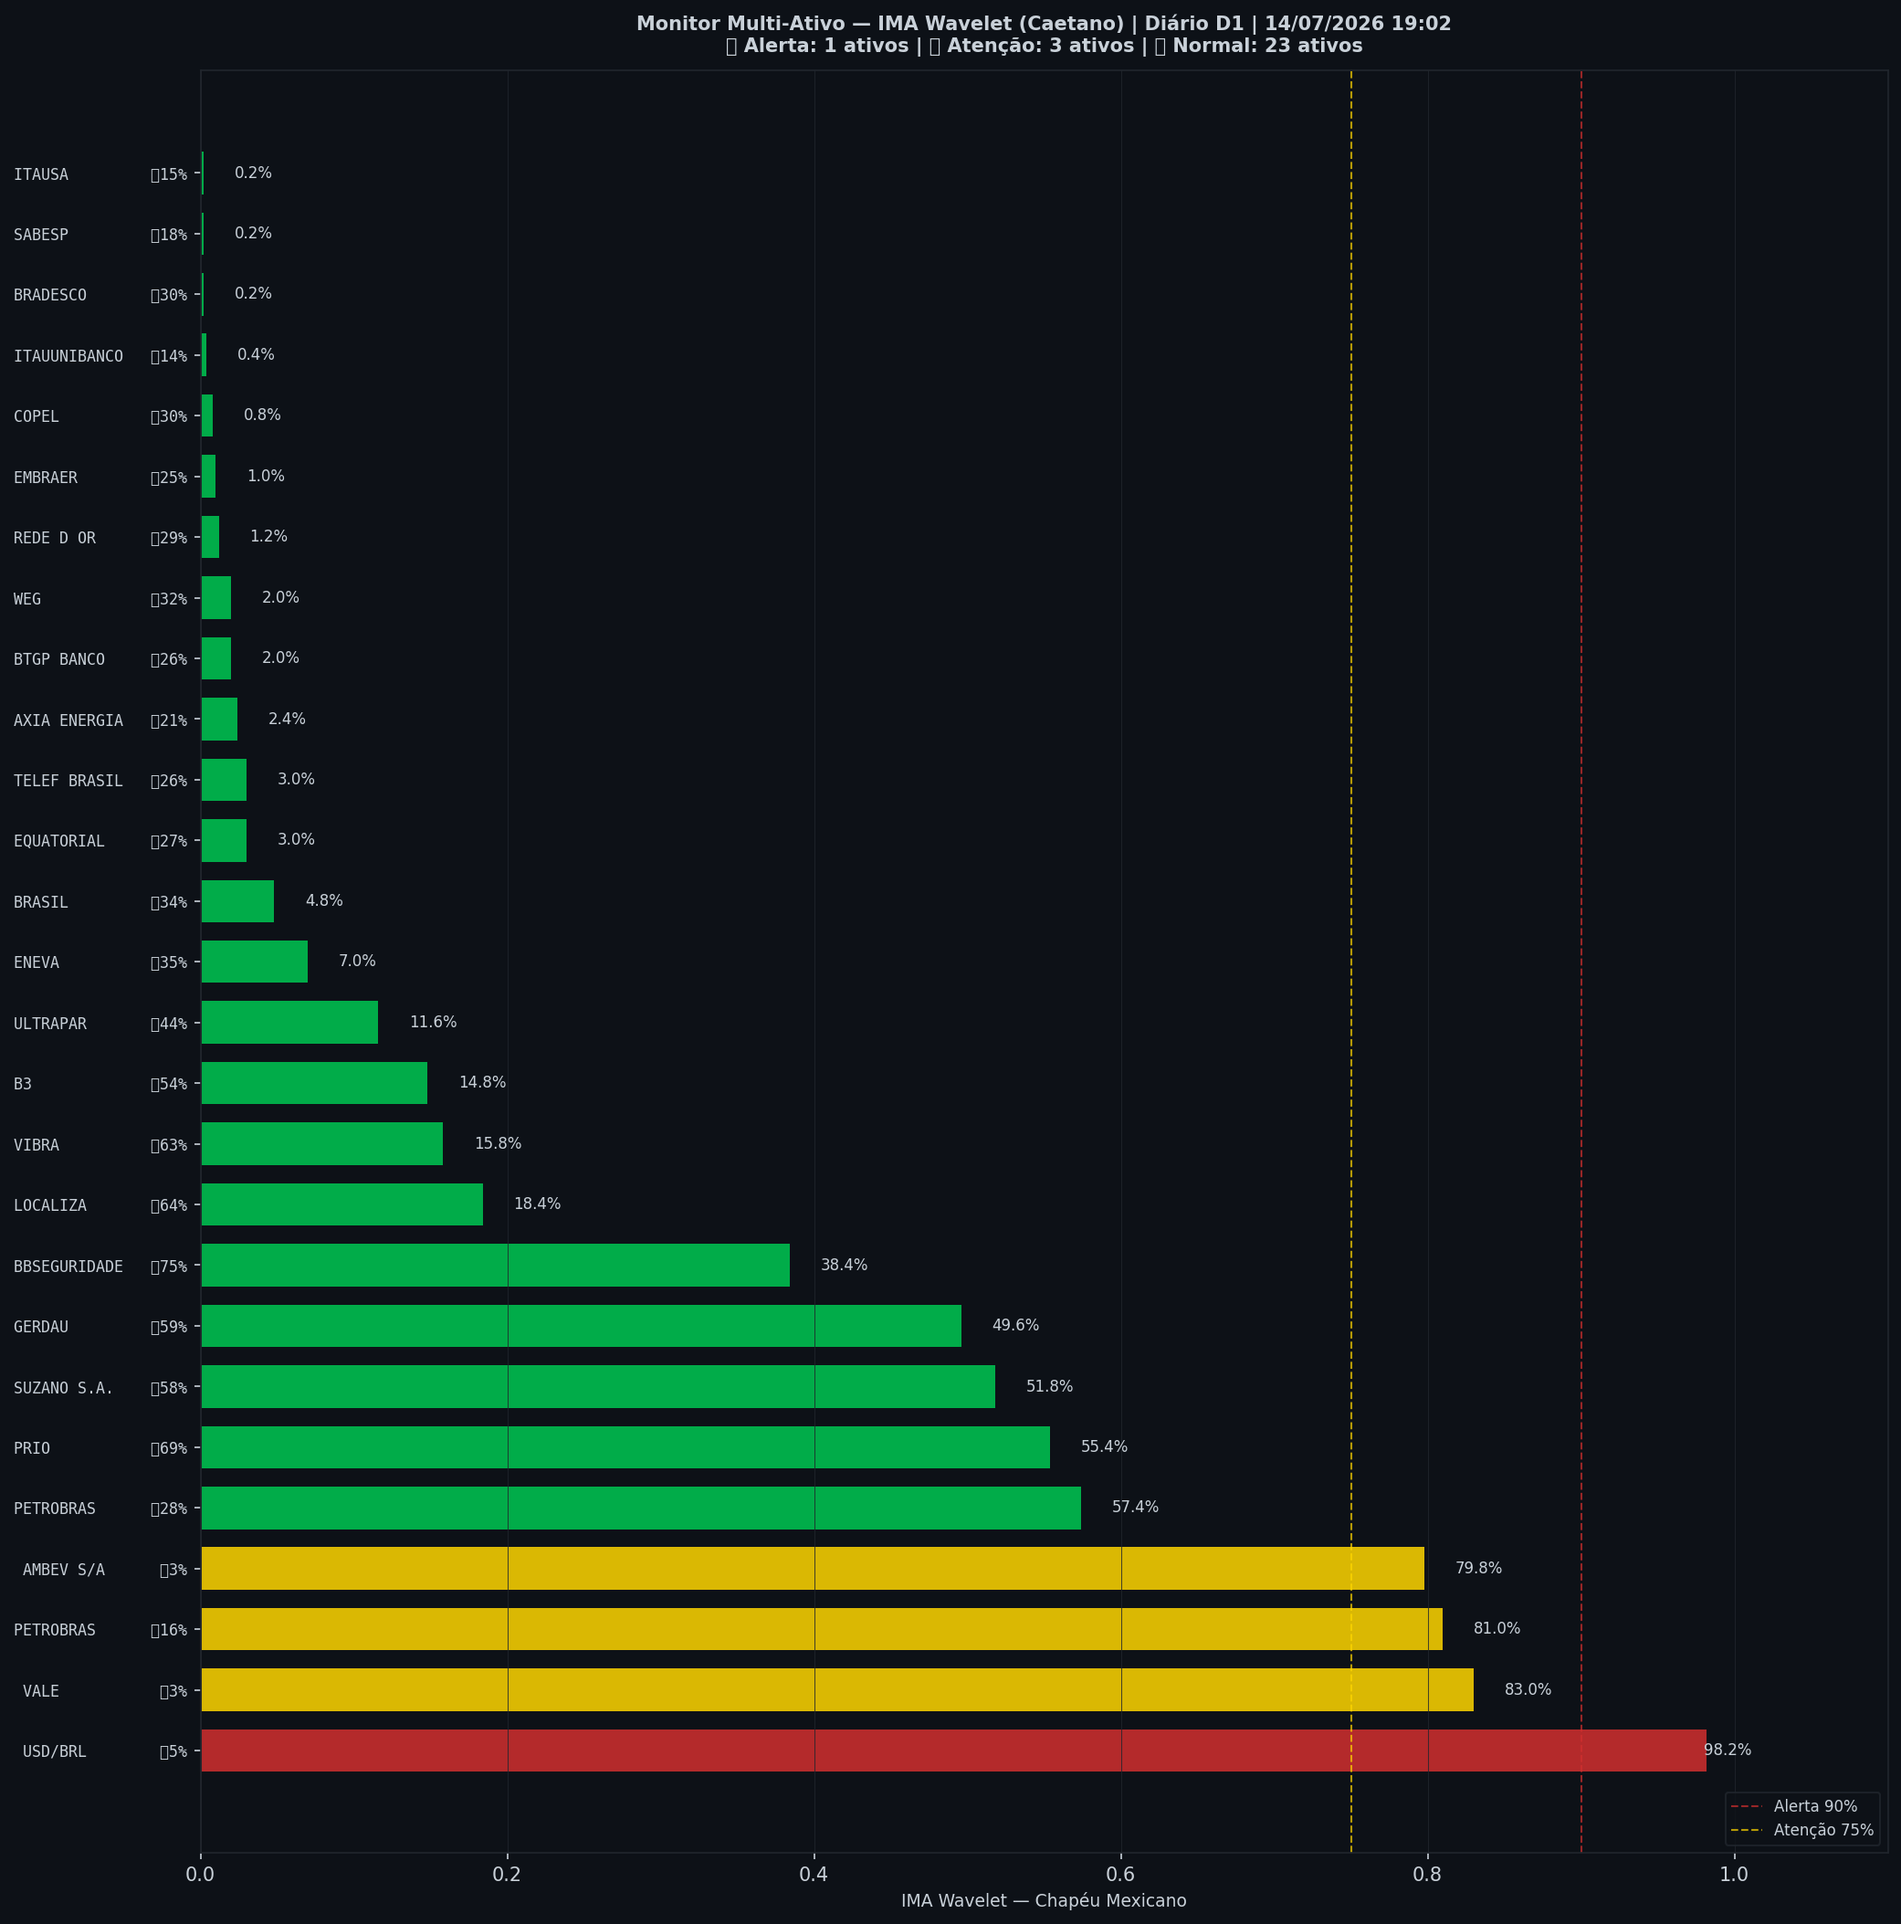
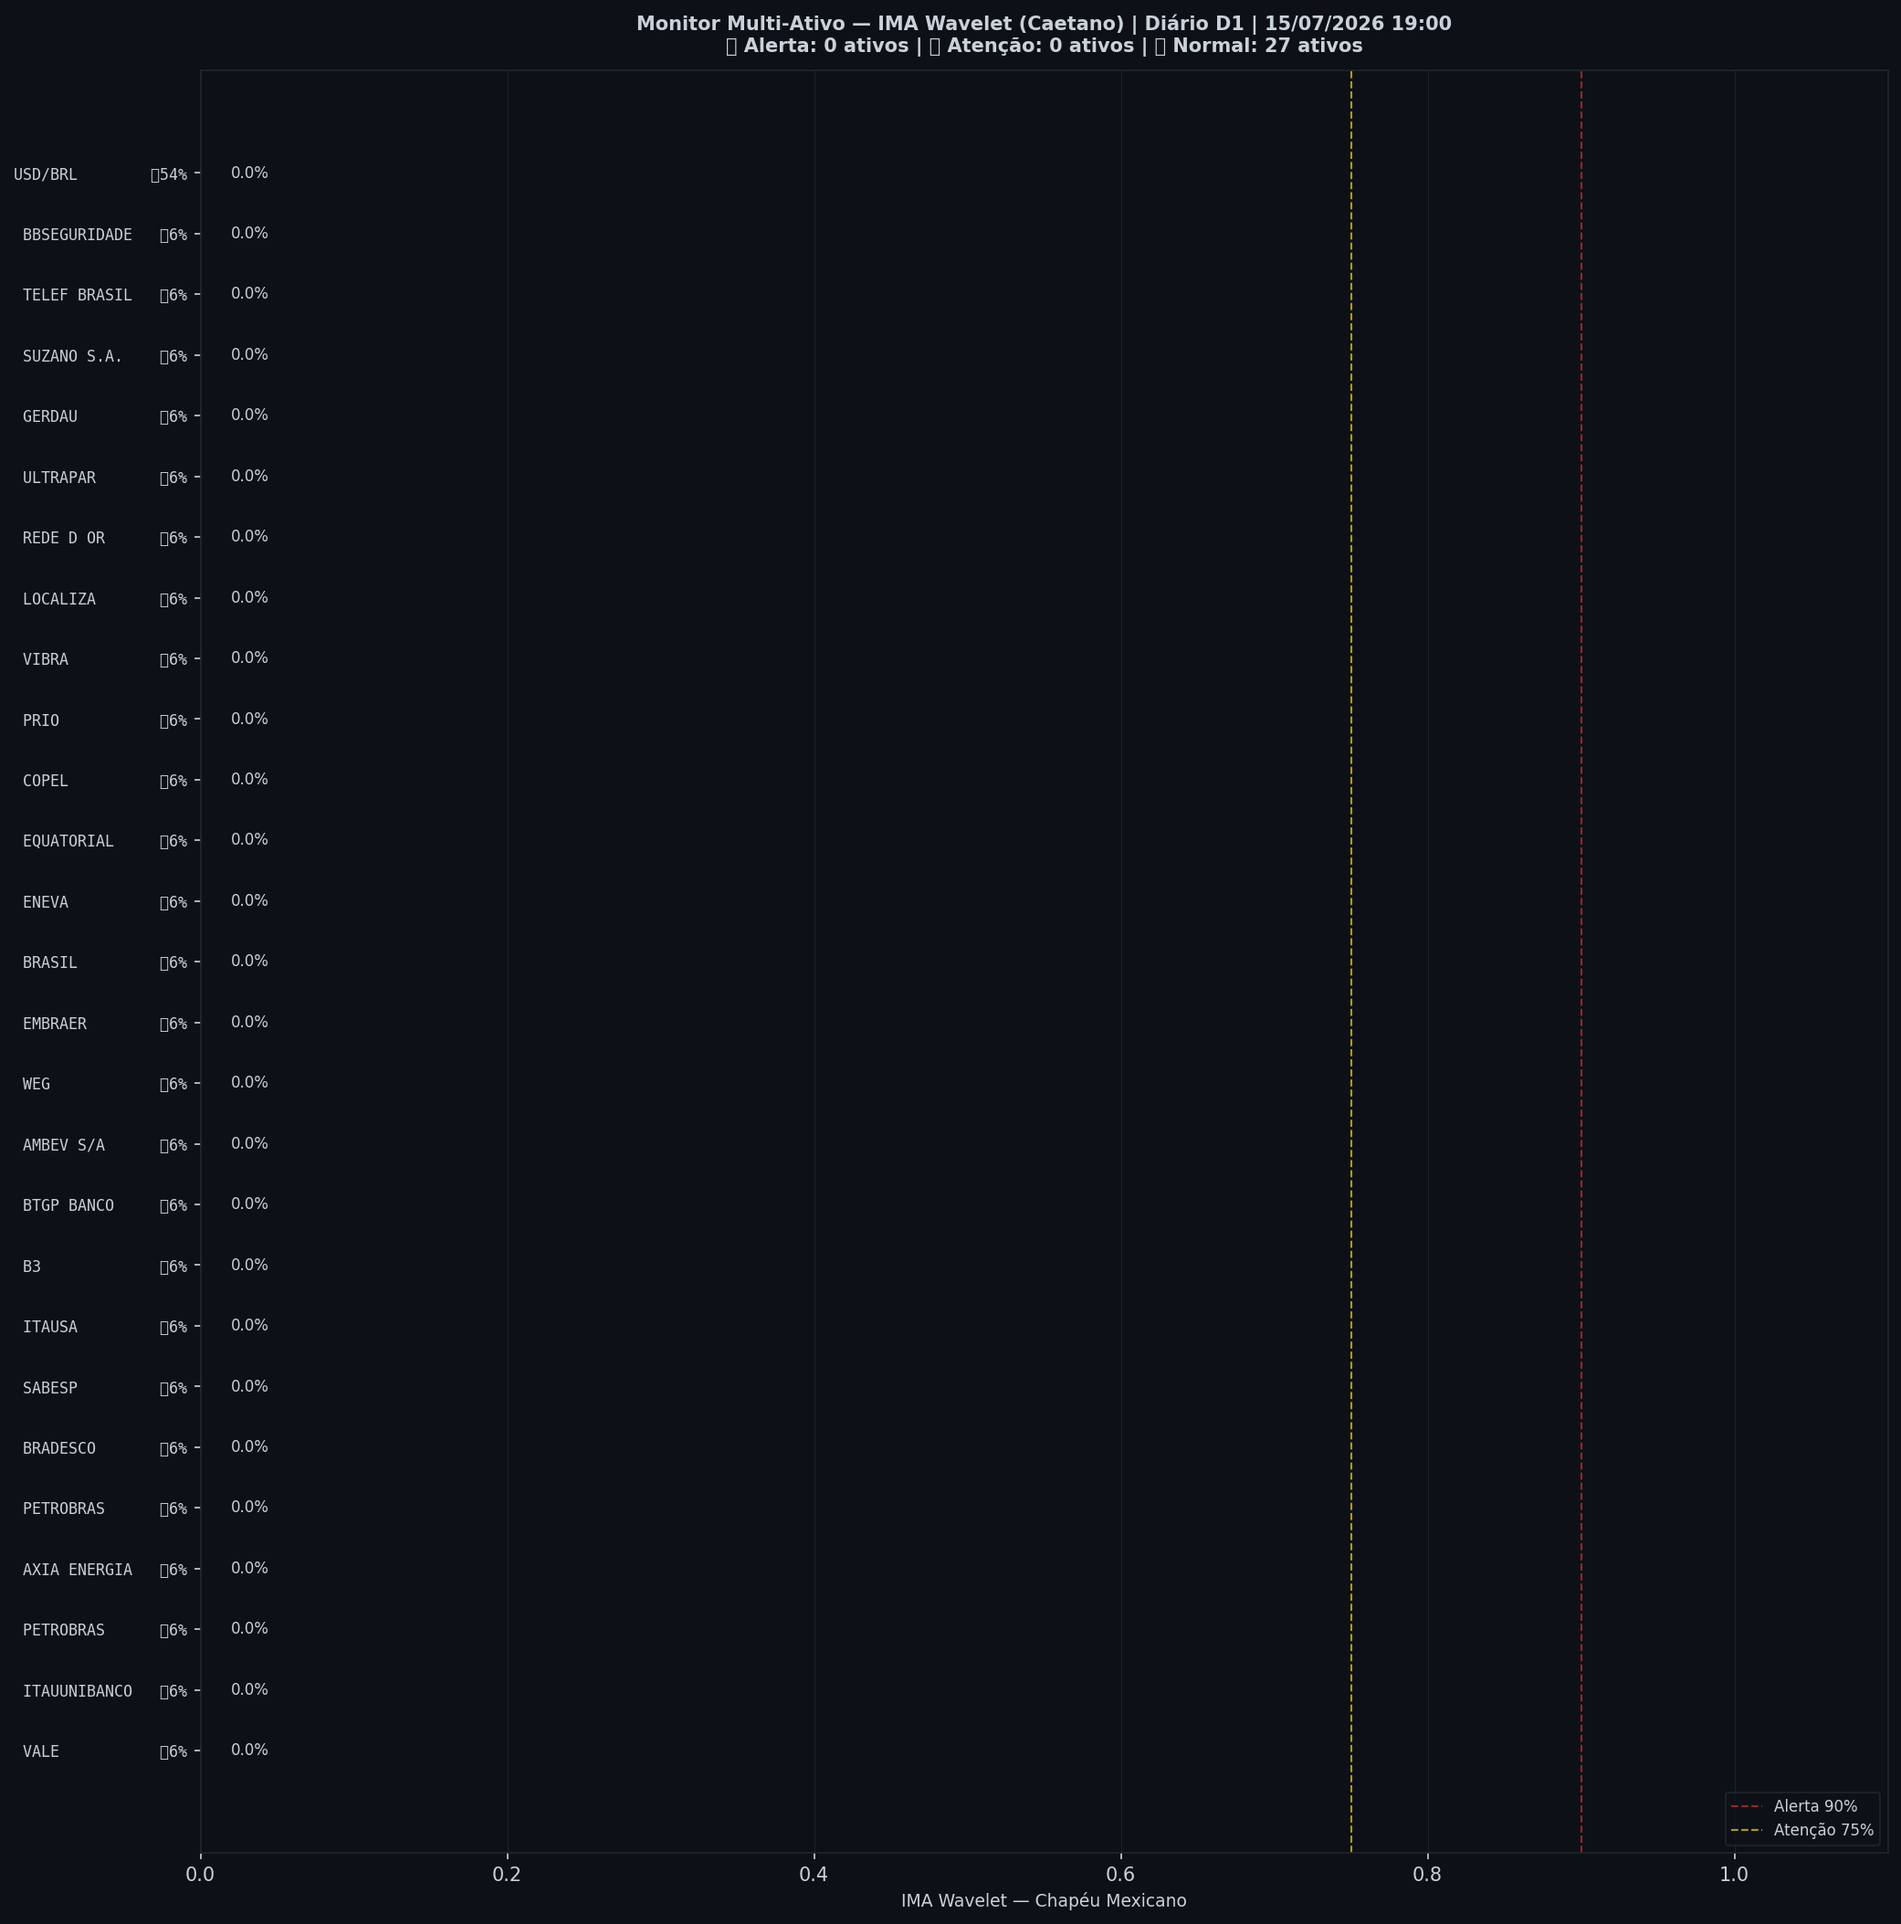
🤖 Auto: Sinal 15/07/2026 19:01

diff --git a/content/diario/2026-07-14.md b/content/diario/2026-07-14.md
@@ -1,0 +1,105 @@
+---
+title: "🟢 Diário 14/07/2026 — VERDE"
+date: 2026-07-15
+tags: [diario]
+---
+
+> [!success] 🟢 **VERDE** — Risco 1% · ＝ +0 p.p. vs leitura anterior
+> `░░░░░░░░░░░░░░░░░░░░`
+> Mercado sem sinais relevantes de estresse.
+
+
+| Indicador | Valor |
+|---|---|
+| 🔴 ζ Crash — severidade da queda em curso | **2%** |
+| 🔵 ζ Entrada — estrutura de fundo | 81% |
+| 🫧 LPPL DS-Confidence | 0% |
+| 📊 Ibovespa | 176.011 pts |
+
+![Gráfico do sinal](../graficos/sinal_diario.png)
+
+## Últimos 30 pregões
+
+| Data | Zona | Risco | IMA Crash | Entrada | LPPL |
+|---|---|---|---|---|---|
+| 2026-07-14 21:00 | 🟢 VERDE | **1%** | 2% | 81% | 0% |
+| 2026-07-13 21:00 | 🟢 VERDE | **0%** | 1% | 85% | 0% |
+| 2026-07-12 21:00 | 🟢 VERDE | **0%** | 0% | 91% | 0% |
+| 2026-07-09 21:00 | 🟢 VERDE | **0%** | 0% | 91% | 0% |
+| 2026-07-08 21:00 | 🟢 VERDE | **0%** | 1% | 94% | 0% |
+| 2026-07-07 21:00 | 🟢 VERDE | **0%** | 1% | 93% | 0% |
+| 2026-07-06 21:00 | 🟢 VERDE | **0%** | 0% | 91% | 0% |
+| 2026-07-05 21:00 | 🟢 VERDE | **0%** | 0% | 93% | 0% |
+| 2026-07-02 21:00 | 🟢 VERDE | **0%** | 0% | 94% | 0% |
+| 2026-07-01 21:00 | 🟢 VERDE | **0%** | 1% | 94% | 0% |
+| 2026-06-30 21:00 | 🟢 VERDE | **0%** | 1% | 94% | 0% |
+| 2026-06-29 21:00 | 🟢 VERDE | **0%** | 0% | 95% | 0% |
+| 2026-06-28 21:00 | 🟢 VERDE | **0%** | 0% | 96% | 0% |
+| 2026-06-25 21:00 | 🟢 VERDE | **0%** | 0% | 98% | 0% |
+| 2026-06-24 21:00 | 🟢 VERDE | **0%** | 0% | 98% | 0% |
+| 2026-06-23 21:00 | 🟢 VERDE | **0%** | 0% | 99% | 0% |
+| 2026-06-22 21:00 | 🟢 VERDE | **0%** | 0% | 100% | 0% |
+| 2026-06-21 21:00 | 🟢 VERDE | **0%** | 0% | 99% | 0% |
+| 2026-06-18 21:00 | 🟢 VERDE | **0%** | 0% | 99% | 0% |
+| 2026-06-17 21:00 | 🟢 VERDE | **0%** | 1% | 98% | 0% |
+| 2026-06-16 21:00 | 🟢 VERDE | **0%** | 1% | 98% | 0% |
+| 2026-06-15 21:00 | 🟢 VERDE | **0%** | 1% | 98% | 0% |
+| 2026-06-14 21:00 | 🟢 VERDE | **0%** | 0% | 98% | 0% |
+| 2026-06-11 21:00 | 🟢 VERDE | **0%** | 0% | 99% | 0% |
+| 2026-06-10 21:00 | 🟢 VERDE | **0%** | 0% | 100% | 0% |
+| 2026-06-09 21:00 | 🟢 VERDE | **0%** | 0% | 100% | 0% |
+| 2026-06-08 21:00 | 🟢 VERDE | **0%** | 1% | 99% | 0% |
+| 2026-06-07 21:00 | 🟢 VERDE | **0%** | 1% | 98% | 0% |
+| 2026-06-04 21:00 | 🟢 VERDE | **0%** | 0% | 99% | 0% |
+| 2026-06-02 21:00 | 🟢 VERDE | **0%** | 0% | 99% | 0% |
+
+## Monitor Multi-Ativo
+
+**0% dos ativos em tensão** (0🔴 0🟡) — quanto mais ativos disparam juntos, mais confiável o sinal.
+
+| Zona | Ativo | Setor | IMA Crash | IMA Entrada |
+|---|---|---|---|---|
+| 🟢 | **VALE** | Mineração | 0.0% | 6.2% |
+| 🟢 | **ITAUUNIBANCO** | Financeiro | 0.0% | 6.2% |
+| 🟢 | **PETROBRAS** | Petróleo | 0.0% | 6.2% |
+| 🟢 | **AXIA ENERGIA** | Energia | 0.0% | 6.2% |
+| 🟢 | **PETROBRAS** | Petróleo | 0.0% | 6.2% |
+| 🟢 | **BRADESCO** | Financeiro | 0.0% | 6.2% |
+| 🟢 | **SABESP** | Saneamento | 0.0% | 6.2% |
+| 🟢 | **ITAUSA** | Financeiro | 0.0% | 6.2% |
+| 🟢 | **B3** | Financeiro | 0.0% | 6.2% |
+| 🟢 | **BTGP BANCO** | Financeiro | 0.0% | 6.2% |
+| 🟢 | **AMBEV S/A** | Consumo | 0.0% | 6.2% |
+| 🟢 | **WEG** | Industrial | 0.0% | 6.2% |
+| 🟢 | **EMBRAER** | Outros | 0.0% | 6.2% |
+| 🟢 | **BRASIL** | Financeiro | 0.0% | 6.2% |
+| 🟢 | **ENEVA** | Energia | 0.0% | 6.2% |
+| 🟢 | **EQUATORIAL** | Energia | 0.0% | 6.2% |
+| 🟢 | **COPEL** | Energia | 0.0% | 6.2% |
+| 🟢 | **PRIO** | Petróleo | 0.0% | 6.2% |
+| 🟢 | **VIBRA** | Energia | 0.0% | 6.2% |
+| 🟢 | **LOCALIZA** | Aluguel | 0.0% | 6.2% |
+| 🟢 | **REDE D OR** | Saúde | 0.0% | 6.2% |
+| 🟢 | **ULTRAPAR** | Outros | 0.0% | 6.2% |
+| 🟢 | **GERDAU** | Siderurgia | 0.0% | 6.2% |
+| 🟢 | **SUZANO S.A.** | Papel/Celulose | 0.0% | 6.2% |
+| 🟢 | **TELEF BRASIL** | Outros | 0.0% | 6.2% |
+| 🟢 | **BBSEGURIDADE** | Financeiro | 0.0% | 6.2% |
+| 🟢 | **USD/BRL** | Câmbio | 0.0% | 53.9% |
+
+![Monitor multi-ativo](../graficos/multi_diario.png)
+
+*Página atualizada em 15/07/2026 19:01 BRT (leitura da barra de 2026-07-14 BRT).*
+
+> [!info]- Como interpretar (clique para expandir)
+> - **ζ Crash**: fração dos coeficientes wavelet acima do corte (Caetano & Yoneyama 2009). Escala absoluta: ζ=0,90 = 90% dos coeficientes anômalos — historicamente, quedas com ζ≥0,90 foram mais fundas e mais longas. **Mede a severidade do movimento em curso, não prevê o início da queda.**
+> - **ζ Entrada**: coeficientes negativos além do corte — estrutura de fundo, possível região de compra.
+> - **LPPL DS-Confidence**: fração de janelas (60–504 pregões) em que o modelo de bolha de Sornette produz um ajuste válido. 30% já é relevante; acima de 50% é forte evidência de estrutura de bolha.
+> - **Zonas com histerese**: o sinal só muda de zona ao cruzar o limiar de entrada, e só volta ao cruzar o de saída — evita flip-flop diário.
+
+
+---
+*Sinal de Crise B3 v4 · IMA Wavelet ([Caetano & Yoneyama, Physica-A 2007](https://doi.org/10.1016/j.physa.2007.03.054)) + LPPL DS-Confidence (Sornette, ETH-Zurich) · [Metodologia](metodologia) · [Histórico](historico)*
+
+> [!quote]- Aviso
+> Estudo acadêmico. Não constitui recomendação de investimento.

diff --git a/content/index.md b/content/index.md
@@ -8,19 +8,19 @@ tags: [home]
 
 Monitoramento diário e intraday do Ibovespa — **IMA Wavelet** (Prof. Marco Antonio Leonel Caetano, ITA/INSPER) + **LPPL DS-Confidence** (Prof. Didier Sornette, ETH-Zurich).
 
-*Última atualização: 15/07/2026 17:30 BRT · ^BVSP · Intraday 15min · v4*
+*Última atualização: 15/07/2026 19:01 BRT · ^BVSP · Diário D1 · v4*
 
-> [!success] 🟢 **VERDE** — Risco 56% · ▲ +56 p.p. vs leitura anterior
-> `███████████░░░░░░░░░`
+> [!success] 🟢 **VERDE** — Risco 1% · ＝ +0 p.p. vs leitura anterior
+> `░░░░░░░░░░░░░░░░░░░░`
 > Mercado sem sinais relevantes de estresse.
 
 
 | Indicador | Valor |
 |---|---|
-| 🔴 ζ Crash — severidade da queda em curso | **56%** |
-| 🔵 ζ Entrada — estrutura de fundo | 0% |
+| 🔴 ζ Crash — severidade da queda em curso | **2%** |
+| 🔵 ζ Entrada — estrutura de fundo | 81% |
 | 🫧 LPPL DS-Confidence | 0% |
-| 📊 Ibovespa | 175.847 pts |
+| 📊 Ibovespa | 176.011 pts |
 
 **Multi-ativo:** 0% em tensão (0🔴 0🟡 de 27 ativos)
 
@@ -32,8 +32,13 @@ Monitoramento diário e intraday do Ibovespa — **IMA Wavelet** (Prof. Marco An
 
 | Data | Zona | Risco | IMA | LPPL |
 |---|---|---|---|---|
-| [15 Jul 2026](diario/2026-07-15) | 🟢 VERDE | **56%** | 56% | 0% |
-| [14 Jul 2026](diario/2026-07-14) | 🟢 VERDE | **17%** | 17% | 0% |
+| [14 Jul 2026](diario/2026-07-14) | 🟢 VERDE | **1%** | 2% | 0% |
+| [13 Jul 2026](diario/2026-07-13) | 🟢 VERDE | **0%** | 1% | 0% |
+| [12 Jul 2026](diario/2026-07-12) | 🟢 VERDE | **0%** | 0% | 0% |
+| [09 Jul 2026](diario/2026-07-09) | 🟢 VERDE | **0%** | 0% | 0% |
+| [08 Jul 2026](diario/2026-07-08) | 🟢 VERDE | **0%** | 1% | 0% |
+| [07 Jul 2026](diario/2026-07-07) | 🟢 VERDE | **0%** | 1% | 0% |
+| [06 Jul 2026](diario/2026-07-06) | 🟢 VERDE | **0%** | 0% | 0% |
 
 ## Navegação
 

diff --git a/content/historico.md b/content/historico.md
@@ -7,6 +7,7 @@ tags: [historico]
 
 | Data | Modo | Zona | Risco | IMA | LPPL |
 |---|---|---|---|---|---|
+| 2026-07-14 | diario | 🟢 VERDE | 1% | 2% | 0% |
 | 2026-07-15 16:45 | intraday | 🟢 VERDE | 56% | 56% | 0% |
 | 2026-07-15 16:30 | intraday | 🟢 VERDE | 0% | 0% | 0% |
 | 2026-07-15 16:15 | intraday | 🟢 VERDE | 0% | 0% | 0% |
